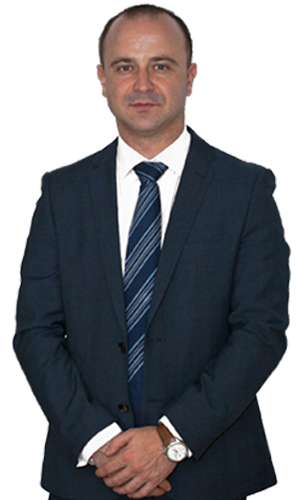
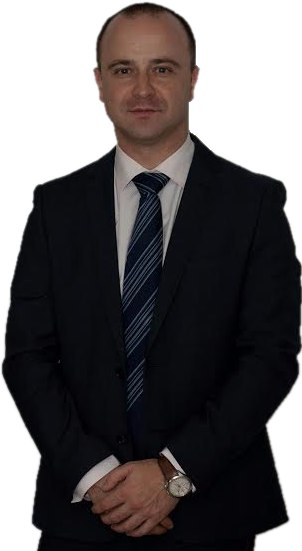
added photo

diff --git a/Index.html b/Index.html
@@ -185,7 +185,7 @@
 									<div class="col-sm-5 col-sm-offset-1 col-sm-offset-1 col-xs-8 col-xs-offset-2">
 										<div class="well container-fluid staff_animation-container">
 											<div class="staff_img-container">
-												<img src="img/staff1.png">
+												<img src="img/staff5.png">
 											</div>
 											<span class="staff_caption-animation">
 												<h6>Главный архитектор</h6>
